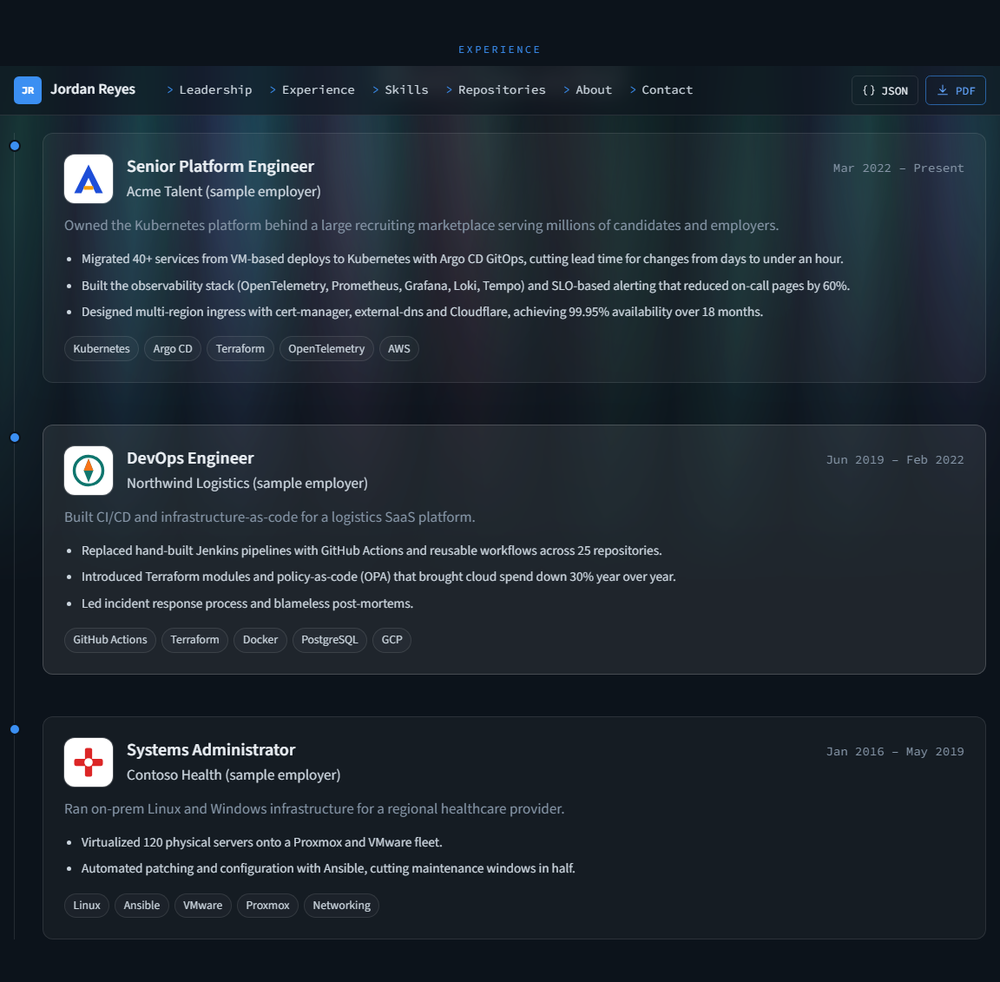
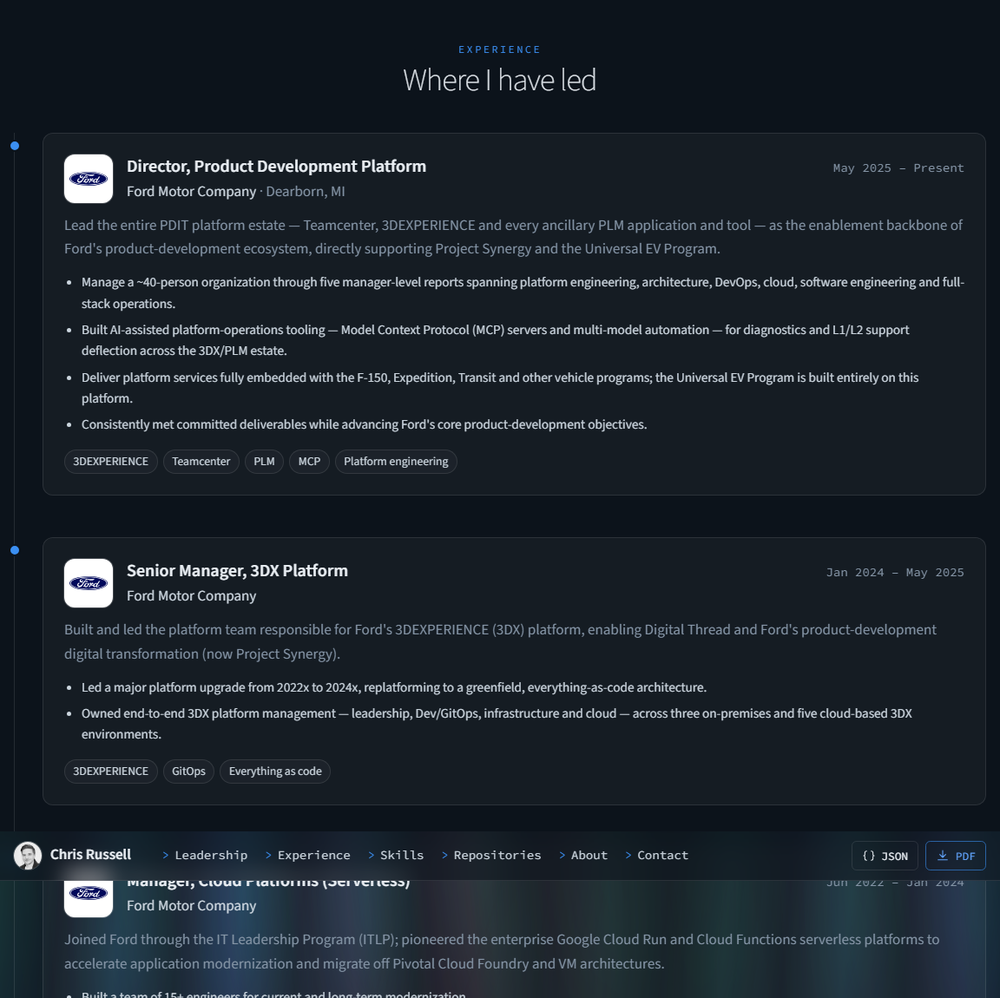
README shows the live site; attribution rule in AGENTS, CLAUDE, CONTRIBUTING
- README screenshots and banner now show the author's live site
  (chrisrussell.io) built from this template; the committed sample persona
  stays fictional and the note says so.
- Rule 13 in AGENTS.md (mirrored in CLAUDE.md and CONTRIBUTING.md): commits
  and pull requests are authored as the person, with no AI co-author
  trailers, "Generated with" lines or session links.

diff --git a/README.md b/README.md
@@ -33,6 +33,10 @@ files. No database, no secrets, no third-party requests.
 
 ## What it looks like
 
+Screenshots are the author's live site, [chrisrussell.io](https://chrisrussell.io),
+built from this template unchanged. The persona committed in `content/` is a
+fictional sample.
+
 <p align="center">
   <img src="docs/images/hero.png" alt="The site: photo, name, tagline and the terminal on the hero band" width="100%">
 </p>
